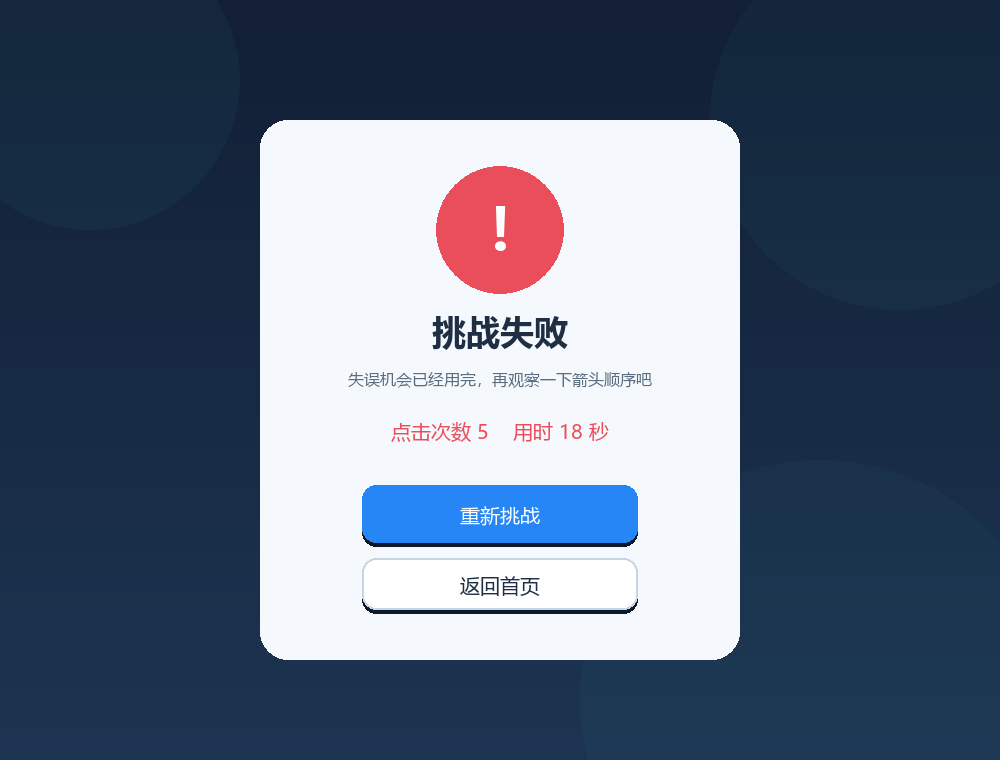
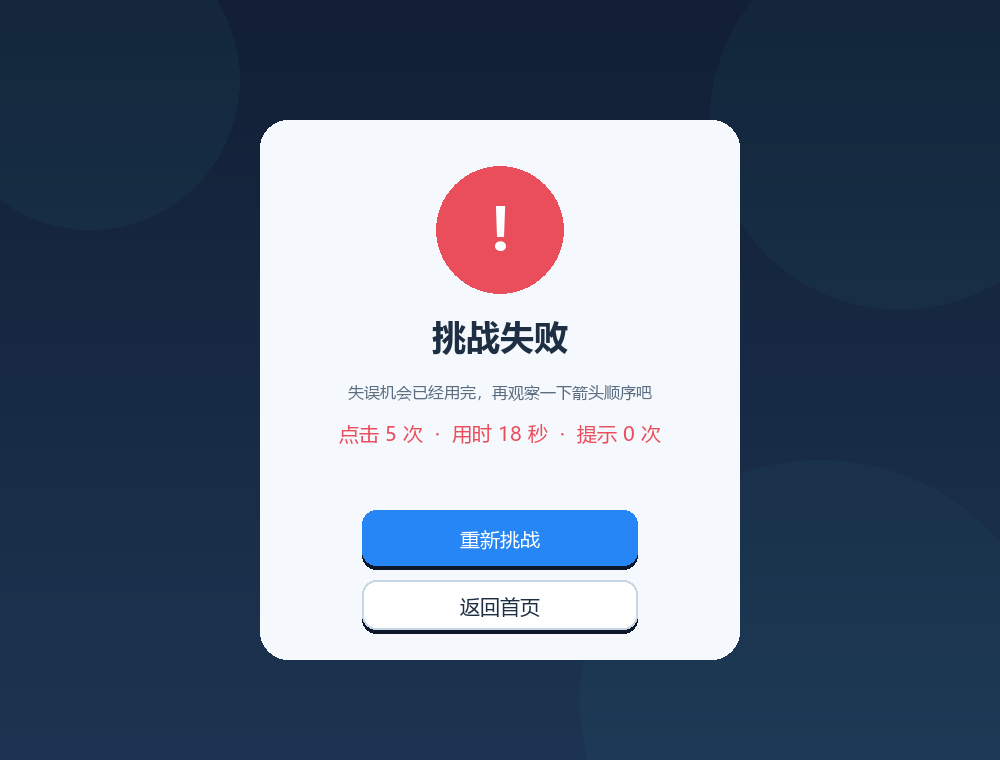
docs: 更新附加功能说明和界面截图

Changed region(s): [[0.341, 0.6355, 0.651, 0.8474], [0.341, 0.3934, 0.651, 0.6053]]

diff --git a/BLOG.md b/BLOG.md
@@ -16,6 +16,12 @@
 
 ![开始界面](docs/screenshots/start.png)
 
+### 关卡选择与成绩记录
+
+关卡会按通关顺序逐步解锁，并显示每关获得的星级和最佳分数。进度会自动保存，下次启动后可以继续挑战。
+
+![关卡选择界面](docs/screenshots/levels.png)
+
 ### 游戏过程与碰撞反馈
 
 下图中，红色箭头向下飞行时被橙色光圈中的箭头阻挡。程序用红色连线、箭头晃动、变色和底部文字同时提示碰撞，并扣除一次失误机会。
@@ -32,7 +38,7 @@
 
 游戏规则是：每个箭头占据 7×7 网格中的一格，方向只有上、下、左、右。点击箭头后，程序沿它的朝向逐格检查。如果到棋盘边界之间没有其他箭头，它会播放飞出动画并消失；如果前方有箭头，它会晃动并显示碰撞反馈，同时减少一次失误机会。清空所有箭头后通过本关，机会耗尽则失败。
 
-界面采用深蓝、亮蓝和青色作为主色。游戏页左侧是棋盘，右侧显示剩余箭头、失误机会、本关用时，以及重新开始、提示一步、返回首页三个按钮。除了作业要求，我还实现了计时和提示功能：按 `H` 或点击“提示一步”，程序会用求解器找出一支安全箭头并显示蓝色光圈。
+界面采用深蓝、亮蓝和青色作为主色。游戏页左侧是棋盘，右侧显示剩余箭头、失误机会、本关用时，以及重开、撤销、提示、AI 解题和返回首页按钮。除了作业要求，我还实现了计时、逐关解锁、星级评分、最佳成绩、JSON 自动存档、撤销和 AI 自动演示。按 `H` 会高亮一步，按 `U` 可以撤销，按 `A` 可以让求解器按正确顺序自动操作。
 
 ## 3. 实现思路
 
@@ -42,6 +48,7 @@
 
 - `core.py`：方向、箭头、棋盘、点击结果和求解器；
 - `levels.py`：5 个原创关卡数据；
+- `progress.py`：星级、得分、最佳成绩和 JSON 存档；
 - `app.py`：Pygame 绘图、按钮、动画和界面状态；
 - `main.py`：启动入口和截图命令。
 
@@ -97,16 +104,25 @@ return None
 
 这不但验证关卡可通关，也被“提示一步”功能复用。
 
+### 3.5 附加功能实现
+
+每次有效点击前，程序会保存一份仅包含棋盘、点击次数、提示次数和计时的轻量快照。点击“撤销一步”后恢复最近快照，因此成功消除和碰撞扣机会都可以撤销。重新开始时会清空历史，避免跨关卡恢复错误状态。
+
+AI 自动解题直接复用 `find_solution` 返回的完整坐标序列，再按固定时间间隔调用正常点击流程，所以自动演示仍然具有飞出动画，而不是瞬间清空棋盘。为了保证评价公平，使用 AI 自动解题时本关最多获得 1 星。
+
+星级综合考虑失误、用时和提示次数；得分在基础分上扣除耗时、失误、提示和自动解题惩罚。通关后，程序只保存更高星级、更高分数和更短时间，并解锁下一关。存档采用 JSON 格式；读取到损坏或异常数据时会安全回退到新进度，避免游戏无法启动。
+
 ## 4. AIGC 使用过程
 
-本项目在 2026 年 9 月 15 日使用 OpenAI Codex 辅助开发，下面是三次有代表性的真实过程。
+本项目在 2026 年 9 月 15～16 日使用 OpenAI Codex 辅助开发，下面是几次有代表性的真实过程。
 
 | 子任务 | AIGC 工具 | AI 实现或提供了什么 | 实际效果 | 人工判断与修改 |
 | --- | --- | --- | --- | --- |
 | 路径检测与测试 | Codex | 设计方向枚举、棋盘字典和统一的逐格检测循环，并为边缘情况生成测试 | T01～T03 首轮通过，四方向不需要重复代码 | 检查起点和边界条件，确认不会把自身算作阻挡 |
 | 关卡设计 | Codex | 生成 5 个关卡并实现 DFS 求解器 | 首轮发现第 4、5 关无解，测试返回 `None` | 分析出相向箭头死锁，修改 3 支箭头方向后全部可解 |
 | 界面与碰撞动画 | Codex | 生成飞出、晃动、变色、连线和提示文字，并输出真实截图 | 功能可用，但首次截图有装饰重叠和勾号缺字 | 调整装饰位置，并将字体勾号改为 Pygame 线段绘制 |
-| 状态流程测试 | Codex | 使用 SDL 虚拟显示器模拟通关、连续失误、重开和五种界面绘制 | 包括字体兼容检查在内的 16 项测试全部通过 | 调整测试中的动画推进时间，使其符合实际操作节奏 |
+| 状态流程测试 | Codex | 使用 SDL 虚拟显示器模拟通关、连续失误、重开和多种界面绘制 | 包括字体兼容检查在内的原有 16 项测试全部通过 | 调整测试中的动画推进时间，使其符合实际操作节奏 |
+| 附加功能 | Codex | 加入关卡选择、星级、JSON 存档、撤销和 AI 自动演示，并补充测试 | 新功能与现有求解器和状态流正常协作 | 限制 AI 通关为 1 星；存档文件加入 `.gitignore`；人工检查新版截图布局 |
 
 更完整的输入摘要、首轮失败结果与修改记录保存在仓库的 `AIGC_LOG.md`。
 
@@ -122,8 +138,13 @@ return None
 | T04 | 消除本关全部箭头 | 显示通关并可进下一关 | 状态进入 `level_clear`，按钮正常 | 是 |
 | T05 | 失误次数耗尽 | 显示失败并允许重开 | 状态进入 `failed`，重试按钮正常 | 是 |
 | T06 | 游戏中重新开始 | 布局与机会恢复 | 状态键和初始值完全一致 | 是 |
+| T07 | 点击撤销一步 | 恢复点击前状态 | 箭头、失误、点击次数和计时均恢复 | 是 |
+| T08 | AI 自动解题 | 按解序列自动通关 | 逐支播放动画并进入通关页，评价为 1 星 | 是 |
+| T09 | 通关解锁 | 解锁下一关 | 关卡选择页可进入下一关 | 是 |
+| T10 | 保存并重新加载进度 | 成绩保持一致 | 星级、最佳分和最快时间均正确恢复 | 是 |
+| T11 | 损坏的存档文件 | 安全使用新进度 | 程序正常启动，不抛出异常 | 是 |
 
-最终结果为 16 项全部通过；5 个关卡均找到完整解序列。详细测试记录见 `TEST_REPORT.md`。
+最终结果为 24 项全部通过；5 个关卡均找到完整解序列。详细测试记录见 `TEST_REPORT.md`。
 
 ## 6. PSP 表格
 
@@ -149,4 +170,4 @@ return None
 
 AIGC 提高了搭建代码框架和编写测试的速度，也能给出较完整的界面方案，但它的输出不能直接当成最终答案。最典型的是 AI 首次生成的两个关卡存在死锁；如果只看界面能运行，很可能到提交后才发现无法通关。加入求解器后，错误被自动测试直接暴露。截图检查又发现了字体缺字，这说明算法测试和视觉测试缺一不可。
 
-我的主要收获有三点：第一，用方向增量可以让四个方向共享一套逻辑；第二，游戏状态和图形界面分离能显著降低测试难度；第三，使用 AI 时最重要的能力不是复制代码，而是明确需求、验证结果、定位问题，并能解释为什么这样修改。后续如果继续扩展，我希望增加撤销功能、关卡选择和由求解序列反向生成随机可解关卡。
+我的主要收获有三点：第一，用方向增量可以让四个方向共享一套逻辑；第二，游戏状态和图形界面分离能显著降低测试难度；第三，使用 AI 时最重要的能力不是复制代码，而是明确需求、验证结果、定位问题，并能解释为什么这样修改。加入撤销、存档和自动解题后，我也进一步理解了状态快照、数据持久化以及算法结果如何驱动界面动画。

diff --git a/README.md b/README.md
@@ -10,19 +10,25 @@
 | --- | --- |
 | ![开始界面](docs/screenshots/start.png) | ![游戏界面](docs/screenshots/game.png) |
 
+### 关卡选择、解锁与最佳成绩
+
+![关卡选择界面](docs/screenshots/levels.png)
+
 | 通关界面 | 失败界面 |
 | --- | --- |
 | ![通关界面](docs/screenshots/success.png) | ![失败界面](docs/screenshots/failure.png) |
 
 ## 功能特点
 
-- 完整的开始、游戏、关卡通过、失败和全部通关界面；
+- 完整的开始、关卡选择、游戏、关卡通过、失败和全部通关界面；
 - 上、下、左、右四种箭头，以及严格的同行/同列路径检测；
 - 箭头飞出动画、碰撞晃动、路径连线、阻挡高亮和文字提示；
 - 失误机会、剩余箭头、当前关卡和用时显示；
 - 5 个原创关卡，全部由内置求解器自动验证可通关；
-- 重新开始、键盘快捷键和“提示一步”附加功能；
-- 核心规则与界面分离，包含 16 项自动化测试。
+- 关卡逐步解锁、1～3 星评价、得分和每关最佳成绩；
+- JSON 自动保存解锁进度、星级、最佳分数和最快时间；
+- 提示一步、撤销操作，以及带动画的 AI 自动解题演示；
+- 核心规则与界面分离，包含 24 项自动化测试。
 
 ## 开发环境
 
@@ -55,6 +61,8 @@ python main.py
 - 前方有箭头：发生碰撞，箭头晃动并扣除 1 次失误机会；
 - `R`：重新开始当前关卡；
 - `H`：高亮一个当前可安全飞出的箭头；
+- `U`：撤销上一步，恢复箭头、失误机会和计时；
+- `A`：开始或停止 AI 自动解题演示；
 - `Esc`：返回开始界面（在开始界面按下则退出）；
 - `Enter` / `Space`：开始游戏或在结果页继续。
 
@@ -83,7 +91,7 @@ return None
 python -m unittest discover -v
 ```
 
-当前共 16 项测试，覆盖畅通、阻挡、四个边界方向、通关、失败、重开、字体兼容、关卡可解性和界面状态流。项目最终验证结果为 `OK`，详见 [TEST_REPORT.md](TEST_REPORT.md)。
+当前共 24 项测试，覆盖畅通、阻挡、四个边界方向、通关、失败、重开、撤销、自动求解、评分、JSON 存档、字体兼容、关卡可解性和界面状态流。项目最终验证结果为 `OK`，详见 [TEST_REPORT.md](TEST_REPORT.md)。
 
 重新生成 README 截图：
 
@@ -98,7 +106,8 @@ python main.py --capture-screenshots docs/screenshots
 ├── arrow_game/
 │   ├── app.py              # Pygame 界面、交互和动画
 │   ├── core.py             # 棋盘模型、路径检测和求解器
-│   └── levels.py           # 5 个原创关卡
+│   ├── levels.py           # 5 个原创关卡
+│   └── progress.py         # 星级、得分、进度与 JSON 存档
 ├── docs/screenshots/       # 实际运行界面截图
 ├── tests/                  # 规则测试和界面流程测试
 ├── AIGC_LOG.md             # 真实 AIGC 协作过程记录
@@ -111,6 +120,10 @@ python main.py --capture-screenshots docs/screenshots
 ## AIGC 使用说明
 
 本项目使用 OpenAI Codex 辅助需求拆分、路径检测实现、关卡求解验证、Pygame 界面编写和测试。开发过程中发现并修复了死锁关卡、字体符号缺失等问题，过程记录见 [AIGC_LOG.md](AIGC_LOG.md)。代码已通过实际运行、截图渲染和自动化测试。
+
+## 存档说明
+
+首次运行后，程序会在项目根目录生成 `save_data.json`。该文件只保存关卡解锁、星级、最佳分数和最快时间，不包含账号或敏感信息，且已加入 `.gitignore`，不会上传到 GitHub。删除该文件即可重置进度。
 
 ## 素材与版权
 

diff --git a/AIGC_LOG.md b/AIGC_LOG.md
@@ -1,6 +1,6 @@
 # AIGC 协作开发记录
 
-记录日期：2026 年 9 月 15 日  
+记录日期：2026 年 9 月 15～16 日
 使用工具：OpenAI Codex
 
 我向 Codex 提供了本次“一箭又一箭”小游戏的完整作业要求。以下内容按本次真实开发过程整理，不是项目完成后的虚构聊天记录。
@@ -62,8 +62,19 @@ Ran 11 tests ... OK
 | --- | --- |
 | 我的要求 | 除规则单元测试外，还要验证真正的界面状态能进入通关页、失败页和重开状态。 |
 | AI 完成 | 使用 SDL 虚拟显示器创建 `GameApp`，按求解序列逐个点击箭头；另外连续点击被阻挡箭头 3 次，并测试五种界面都能绘制。 |
-| 实际效果 | 加入字体兼容回归测试后，16 项测试全部通过；测试不需要人工点击窗口，适合提交前重复执行。 |
+| 实际效果 | 加入字体兼容回归测试后，原有 16 项测试全部通过；测试不需要人工点击窗口，适合提交前重复执行。 |
 | 人工判断/修改 | 将每次飞行动画推进 0.6 秒后再点下一支箭头，保证测试过程与真实界面的“动画期间禁止重复点击”规则一致。 |
+
+## 记录五：附加功能与持久化
+
+| 项目 | 内容 |
+| --- | --- |
+| 我的要求 | 在基础要求稳定通过后，增加关卡选择、星级评价、保存进度、撤销和 AI 自动解题。 |
+| AI 完成 | 新建独立的 `progress.py`，实现 JSON 存档和评分；用棋盘快照实现撤销；复用 DFS 解序列驱动自动点击动画；增加关卡选择页。 |
+| 实际效果 | 通关后会解锁下一关并记录最佳成绩；重启程序可恢复进度；撤销能恢复成功操作或碰撞失误；AI 可自动演示完整通关过程。 |
+| 人工判断/修改 | 为避免自动解题破坏评分公平，将其限制为 1 星；忽略本地存档文件，防止将个人进度提交到 GitHub；生成 5 张截图检查按钮、星级和成绩布局。 |
+
+新增功能完成后，自动测试从 16 项增加到 24 项，覆盖正常存档、损坏存档、评分边界、解锁、撤销和自动解题流程。
 
 ## 使用 AIGC 后的总结
 

diff --git a/TEST_REPORT.md b/TEST_REPORT.md
@@ -1,11 +1,11 @@
 # 测试报告
 
-测试日期：2026 年 9 月 15 日  
+测试日期：2026 年 9 月 16 日
 测试环境：Windows、Python 3.13.9、Pygame 2.6.1
 
 ## 测试方法
 
-核心规则使用 Python 标准库 `unittest` 自动测试；界面流程使用 Pygame 的 SDL 虚拟显示器测试，因此无需真正点击窗口也能重复验证。四张界面截图由程序自身渲染，并进行人工视觉检查。
+核心规则和存档使用 Python 标准库 `unittest` 自动测试；界面流程使用 Pygame 的 SDL 虚拟显示器测试，因此无需真正点击窗口也能重复验证。五张界面截图由程序自身渲染，并进行人工视觉检查。
 
 执行命令：
 
@@ -36,12 +36,18 @@ python main.py --capture-screenshots docs/screenshots
 | 关卡可解性 | 深度优先搜索为 5 关都找到完整解序列 |
 | 界面渲染 | 开始、游戏、通关、失败、全部通关五种状态均无异常 |
 | Windows 字体兼容 | 绕过异常的 Pygame 系统字体索引，直接加载微软雅黑字体文件，中文渲染正常 |
-| README 截图 | 4 张 PNG 成功生成并人工检查，无文字重叠或字体缺失 |
+| 撤销操作 | 成功消除后可恢复箭头、点击次数和计时 |
+| AI 自动解题 | 按 DFS 解序列逐支播放动画并完成关卡，评价限制为 1 星 |
+| 关卡解锁 | 第一关通过后第二关状态变为已解锁 |
+| JSON 存档 | 保存和加载后星级、最佳分、最快时间一致 |
+| 损坏存档 | 自动回退到新进度，程序继续运行 |
+| 评分边界 | 无失误快速通关为 3 星；失误/提示会降低评价 |
+| README 截图 | 5 张 PNG 成功生成并人工检查，无文字重叠或字体缺失 |
 
 ## 最终自动测试输出摘要
 
 ```text
-Ran 16 tests in 2.360s
+Ran 24 tests in 1.306s
 
 OK
 ```
